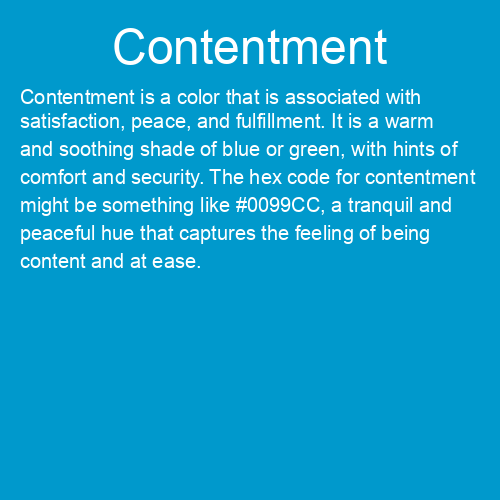
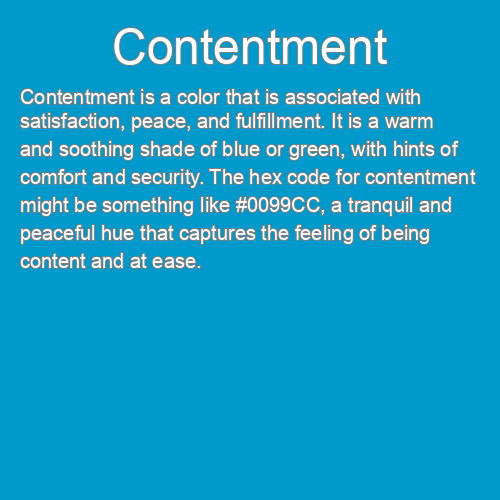
add more items, outline text in gray

Changed region(s): [[0.03, 0.18, 0.96, 0.54], [0.21, 0.06, 0.78, 0.15], [0.24, 0.12, 0.27, 0.15]]

diff --git a/color-square-maker.py b/color-square-maker.py
@@ -21,6 +21,25 @@ emotion_color_map = {
         "Indignation": "Indignation is a color that evokes feelings of anger and righteousness. It is a bright, fiery shade of red, with hints of orange and yellow. It is the color of a burning flame, or of a passionate heart. The hex code for indignation might be something like #E25E4C.",
         "Ennui": "Ennui is a color that evokes a feeling of boredom and apathy. It is a dull, washed-out shade of beige, with hints of white and gray. It is the color of a cloudy sky, or of a mind numbed by monotony. The hex code for ennui might be something like #C4B8A1.",
         "Nostalgia": "Nostalgia is a color that evokes a sense of warmth and longing for the past. It is a soft, muted shade of blue, with hints of gray and a touch of purple. It is the color of a clear autumn sky, or of a forgotten memory. The hex code for nostalgia might be something like #B4C4D8.",
+        "Anticipation": "A color named \"anticipation\" would be a vibrant, electric shade of yellow. It would be lively and excited, evoking feelings of excitement and expectation. The hex code for this color might be #FFFF00.",
+        "Adventure": "A color named \"adventure\" would be a bold, vibrant shade of orange. It would be energetic and exciting, evoking feelings of exploration and discovery. The hex code for this color might be #FFA500.",
+        "Meditation": "A color named \"meditation\" would be a peaceful, calming shade of blue. It would be serene and tranquil, evoking feelings of relaxation and mindfulness. The hex code for this color might be #ADD8E6.",
+        "Hyperfocus": "A color named \"hyperfocus\" would be a sharp, intense shade of green. It would be focused and determined, evoking feelings of concentration and determination. The hex code for this color might be #008000.",
+        "Camaraderie": "A color named \"camaraderie\" would be a warm, welcoming shade of red. It would be friendly and inviting, evoking feelings of fellowship and togetherness. The hex code for this color might be #FF0000.",
+        "Wonder": "A color named \"wonder\" would be a vibrant, sparkling shade of blue. It would be lively and exciting, evoking feelings of curiosity and amazement. The hex code for this color might be #4C9AFF.",
+        "Impostor syndrome": "A color named \"imposter syndrome\" would be a pale, muted shade of yellow. It would be uncertain and uneasy, evoking feelings of self-doubt and insecurity. The hex code for this color might be #FFF2CC.",
+        "Gratitude": "A color named \"gratitude\" would be a warm, inviting shade of orange. It would be cheerful and uplifting, evoking feelings of thankfulness and appreciation. The hex code for this color might be #FF7F00.",
+        "Transcendence": "A color named \"transcendence\" would be a ethereal, otherworldly shade of white. It would be delicate and pure, evoking feelings of spirituality and enlightenment. The hex code for this color might be #FFFFFF.",
+        "Torment": "A color named \"torment\" would be a dark, foreboding shade of black. It would be intense and oppressive, evoking feelings of misery and suffering. The hex code for this color might be #000000.",
+        "Ingenuity": "A color named \"ingenuity\" would be a bright, vibrant shade of green. It would be lively and energetic, evoking feelings of intelligence and creativity. The hex code for this color might be #00FF00.",
+        "Judgement": "A color named \"judgement\" would be a deep, intense shade of purple. It would be intense and intimidating, evoking feelings of authority and power. The hex code for this color might be #6D3D91.",
+        "Serenity": "A color named \"serenity\" would be a peaceful, calming shade of blue. It would be gentle and soothing, evoking feelings of calm and tranquility. The hex code for this color might be #85C5E5.",
+        "Dread": "A color named \"dread\" would be a deep, muted shade of grey with hints of green. It would be ominous and foreboding, evoking feelings of fear and anxiety. The hex code for this color might be #868686",
+        "Burnout": "A color named \"burnout\" would be a dark, muted red with hints of black. It would be intense and overpowering, evoking feelings of overwhelm and despair. The hex code for this color might be #B30000.",
+        "Exhuastion": "A color named \"exhaustion\" would be a dull, muted grey with hints of brown. It would be drained and lifeless, evoking feelings of fatigue and weariness. The hex code for this color might be #8B8B8B.",
+        "Intelligence": "The color of intelligence is a cool and calming blue, with hints of green mixed in. It is a color that is associated with clarity and focus, and evokes a sense of wisdom and intellect. The hex code for intelligence might be #339966, which is a combination of blue and green tones. This color would be a great choice for designs that focus on education or knowledge, as it conveys a sense of intelligence and expertise.",
+        "Fear": "The color of fear is a dark and foreboding black, with hints of deep red mixed in. It is a color that is associated with danger and dread, and conveys a sense of unease and anxiety. The hex code for fear might be #330000, which is a deep, rich red with a black undertone. This color would be a great choice for designs that want to convey a sense of fear or danger, as it is intense and menacing.",
+        "Compassion": "A color named \"compassion\" would be a soft, pale pink with hints of lavender. It would be gentle and soothing, evoking feelings of empathy and understanding. The hex code for this color might be #F5E6EC.",
 }
 
 size = 500
@@ -37,7 +56,8 @@ def extract_hex_code(string):
 
 def generate_color_png(emotion, description):
     # Create a new image with the specified size
-    img = Image.new('RGB', (size, size), color=extract_hex_code(description))
+    bg_color = extract_hex_code(description)
+    img = Image.new('RGB', (size, size), color=bg_color)
 
     # Create a drawing context
     draw = ImageDraw.Draw(img)
@@ -56,18 +76,17 @@ def generate_color_png(emotion, description):
     y = 20
 
     # Draw the text on the image
-    draw.text((x, y), emotion, font=h1, fill='white')
+    draw.text((x, y), emotion, font=h1, fill='white', stroke_width=1, stroke_fill='gray')
 
     # Calculate the x and y coordinates of the second line of text
     x = 20
     y += text_height + 20
 
     # Draw the second line of text on the image
-    #draw.text((x, y), description, font=p1, fill='white')
     lines = textwrap.wrap(description, width=50)
     for line in lines:
         width, height = p1.getsize(line)
-        draw.text((x, y), line, font=p1, fill='white')
+        draw.text((x, y), line, font=p1, fill='white', stroke_width=1, stroke_fill='gray')
         y += height+5
 
 
